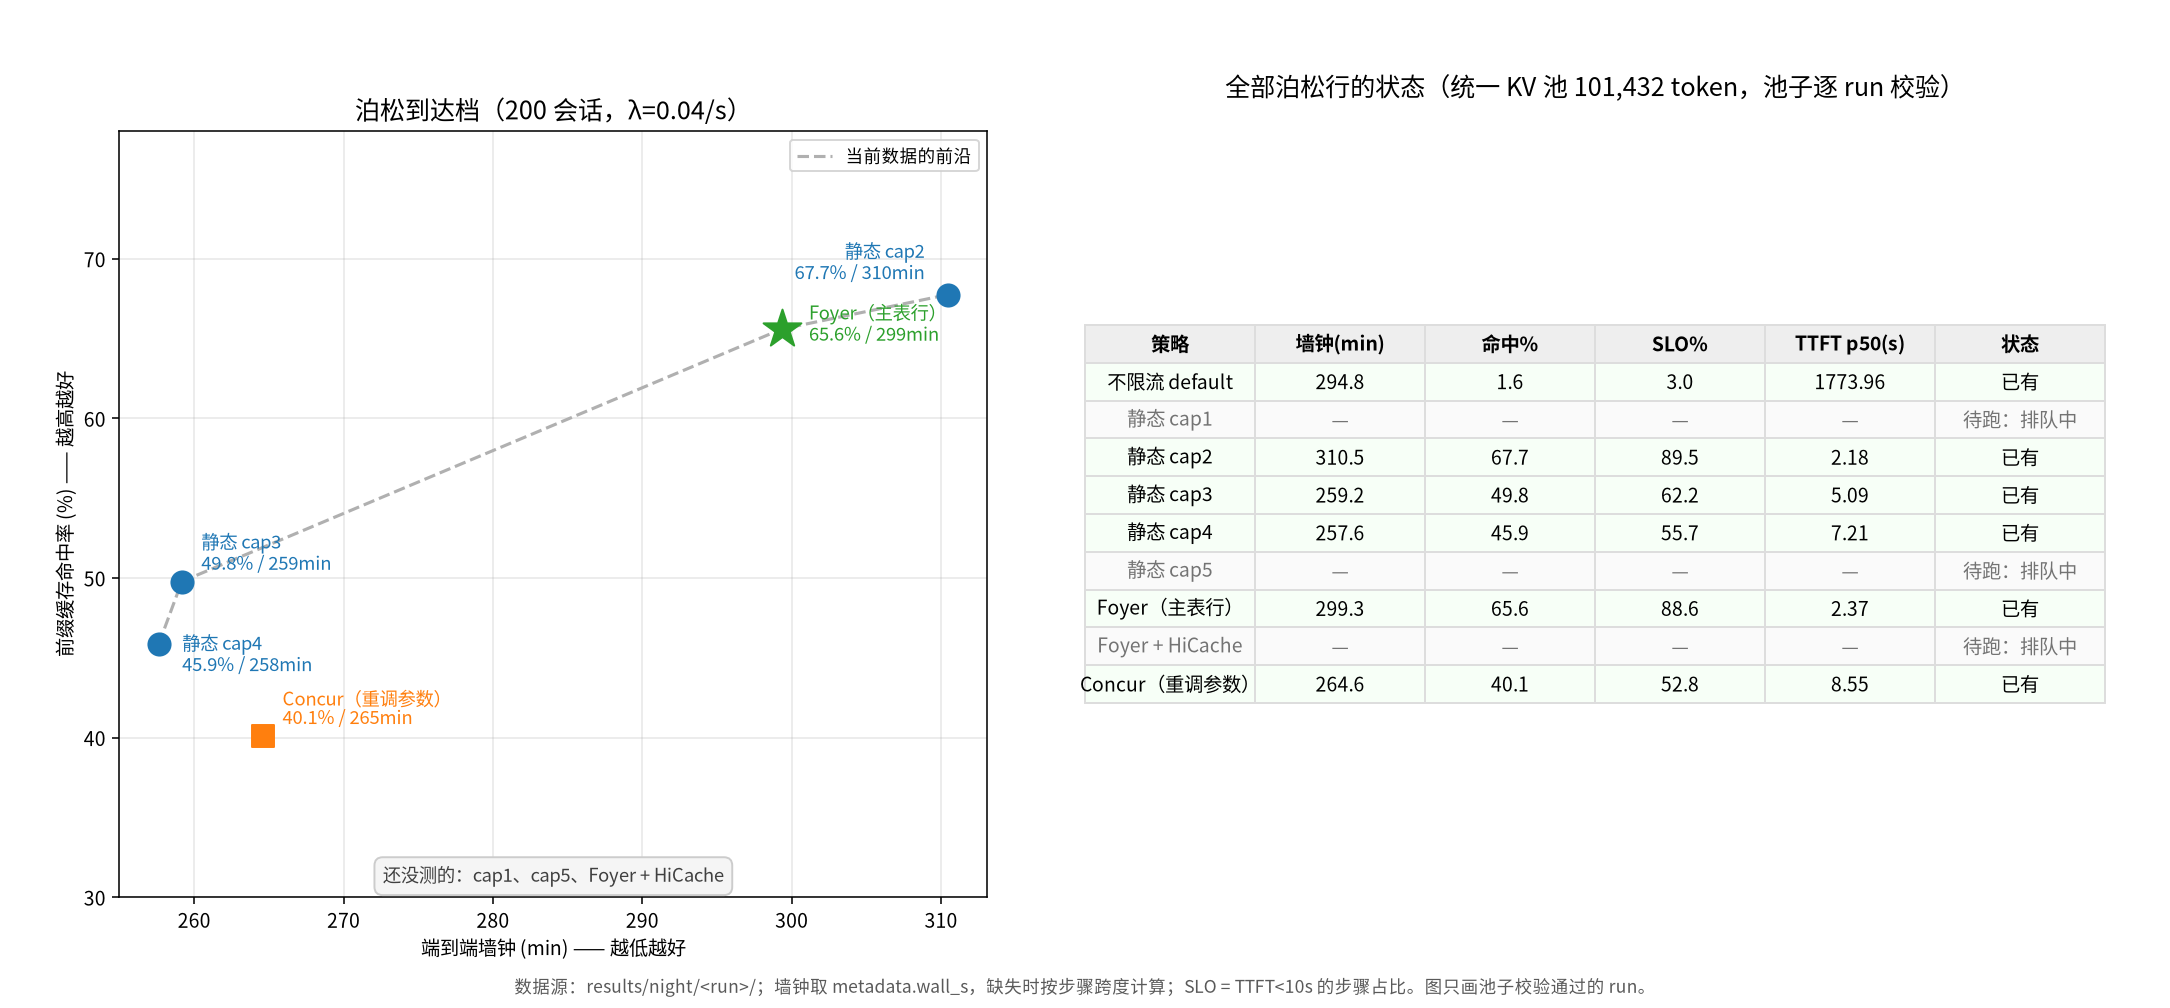
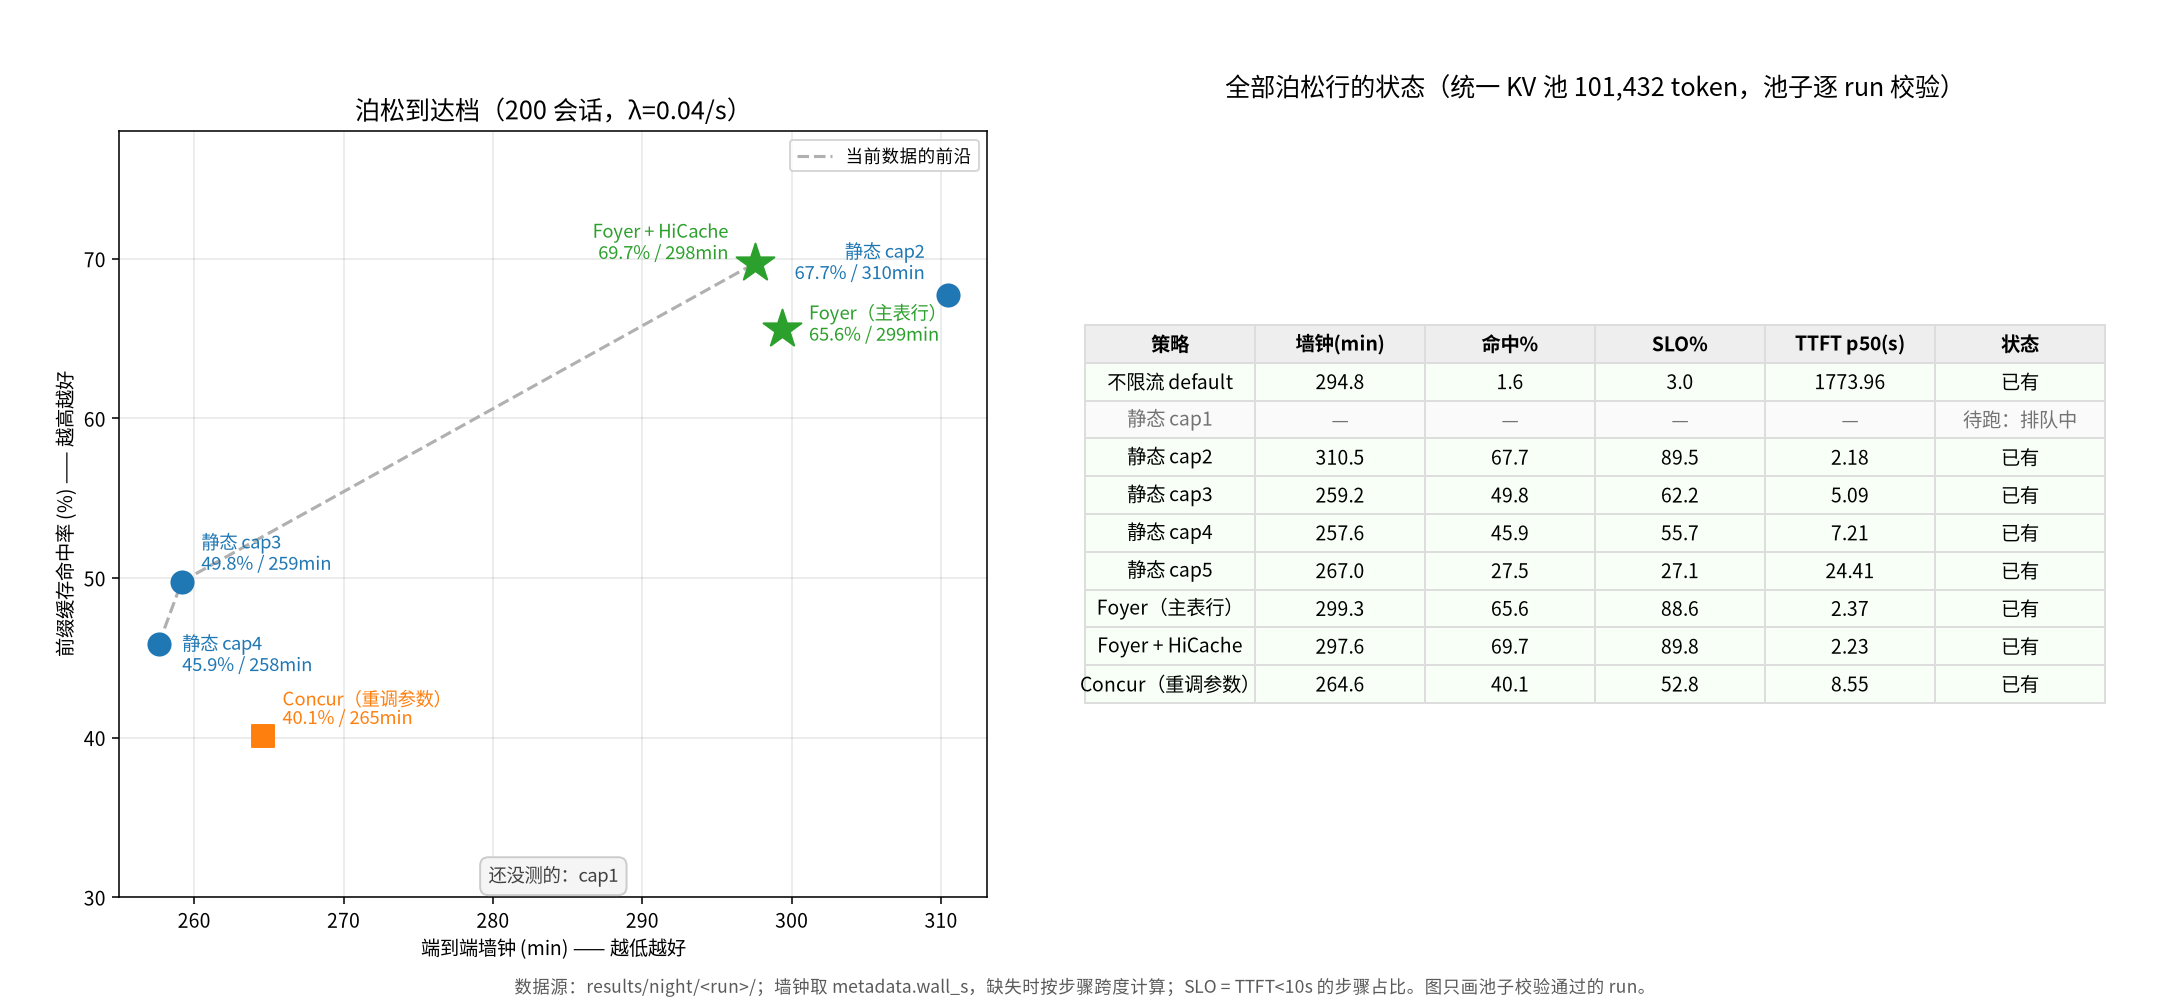
fig: refresh the Poisson status figure with Foyer+HiCache
pois200_foyer_hc finished since the last render (17:27), and the figure's table
auto-detects completion, so a plain re-run picks it up: 297.6min / 69.7% hit /
89.8% SLO / 2.23s p50. cap5 (267.0/27.5) and default fill in the same way.

The substantive change is the Pareto frontier. foyer_hc sits at (297.6, 69.7),
which dominates cap2 (310.5, 67.7) on both axes, so the frontier is now
cap4 -> cap3 -> foyer_hc and cap2 drops off it. Foyer itself (299.3, 65.6) is
now dominated too.

Label collision fixed: three points crowd the top-right corner and the generic
star offset (right-down) put the HiCache label directly on cap2's (left-up).
The HiCache label now goes left into empty space.

Run on the lab with: python3 fig_poisson_status.py <results_dir> <out_dir>

diff --git a/paper/figs/fig_poisson_status.py b/paper/figs/fig_poisson_status.py
@@ -104,6 +104,12 @@ def main():
             dx, dy, ha = (12, -14, "left")
         if label.startswith("静态 cap2"):
             dx, dy, ha = (-12, 8, "right")
+        # Once HiCache is on, three points crowd the top-right corner (foyer_hc,
+        # foyer, cap2) and the two left/right-anchored labels land on each other.
+        # Send the HiCache label out to the left instead: cap2 already owns the
+        # strip just left-above its dot, and foyer owns the strip to its right.
+        if label.startswith("Foyer + HiCache"):
+            dx, dy, ha = (-14, 2, "right")
         ax.annotate(f"{label}\n{d['hit']:.1f}% / {d['wall']:.0f}min",
                     (d["wall"], d["hit"]), textcoords="offset points",
                     xytext=(dx, dy), fontsize=9.5, color=colour, ha=ha)
